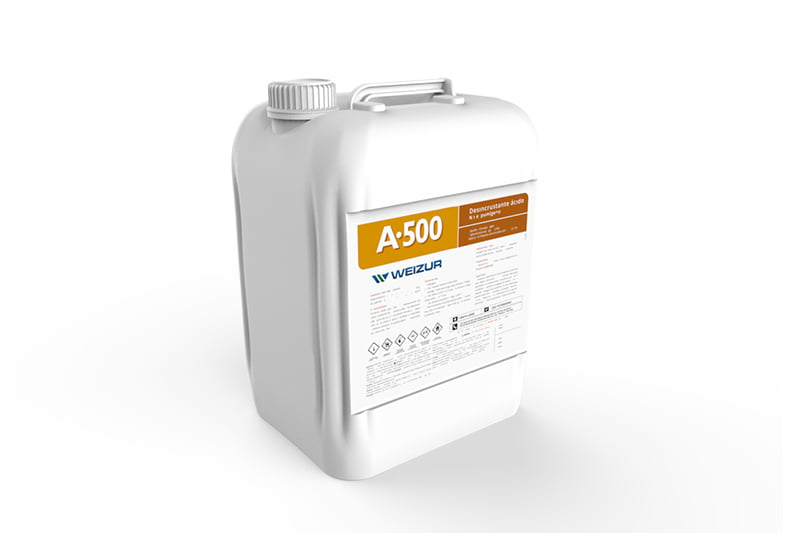
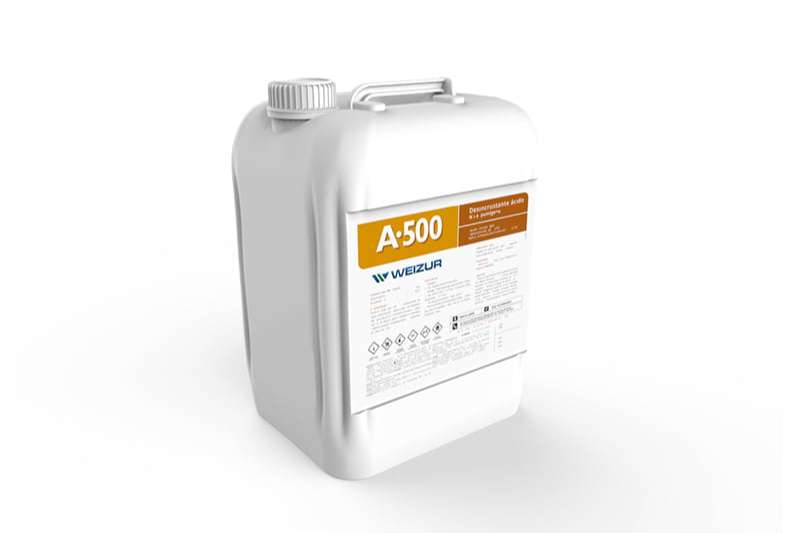
optimizacion de imagenes

diff --git a/PAGES/contacto.html b/PAGES/contacto.html
@@ -132,8 +132,8 @@
 						<textarea id="message"></textarea>
 					</div>
 					<div class="text-center">
-						<button type="reset" class="btn btn-outline-danger">Borrar datos</button>
-						<button type="submit" class="btn btn-outline-success">Enviar mensaje</button>
+						<button type="reset" class="btn btn-outline-danger btn-sm">Borrar datos</button>
+						<button type="submit" class="btn btn-outline-success btn-sm">Enviar mensaje</button>
 					</div>
 				</form>
 			</div>

diff --git a/CSS/style.css b/CSS/style.css
@@ -307,6 +307,10 @@ div .row {
     box-sizing: border-box;
 }
 
+.form {
+	display: inline-block;
+}
+
 .pie {
 	background-color: #2a2a2e;
 	color: silver;
